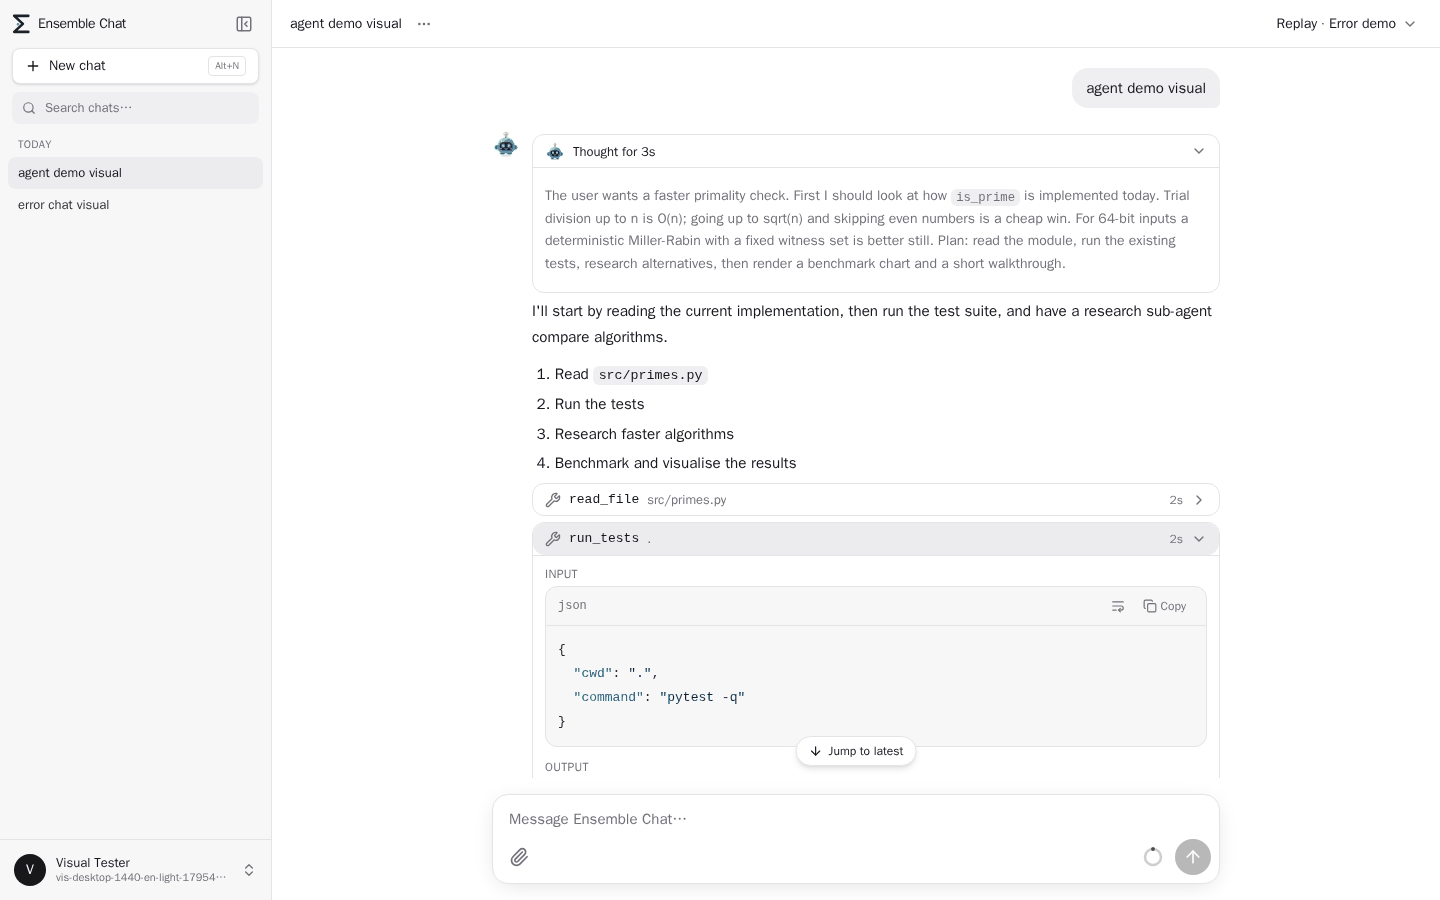
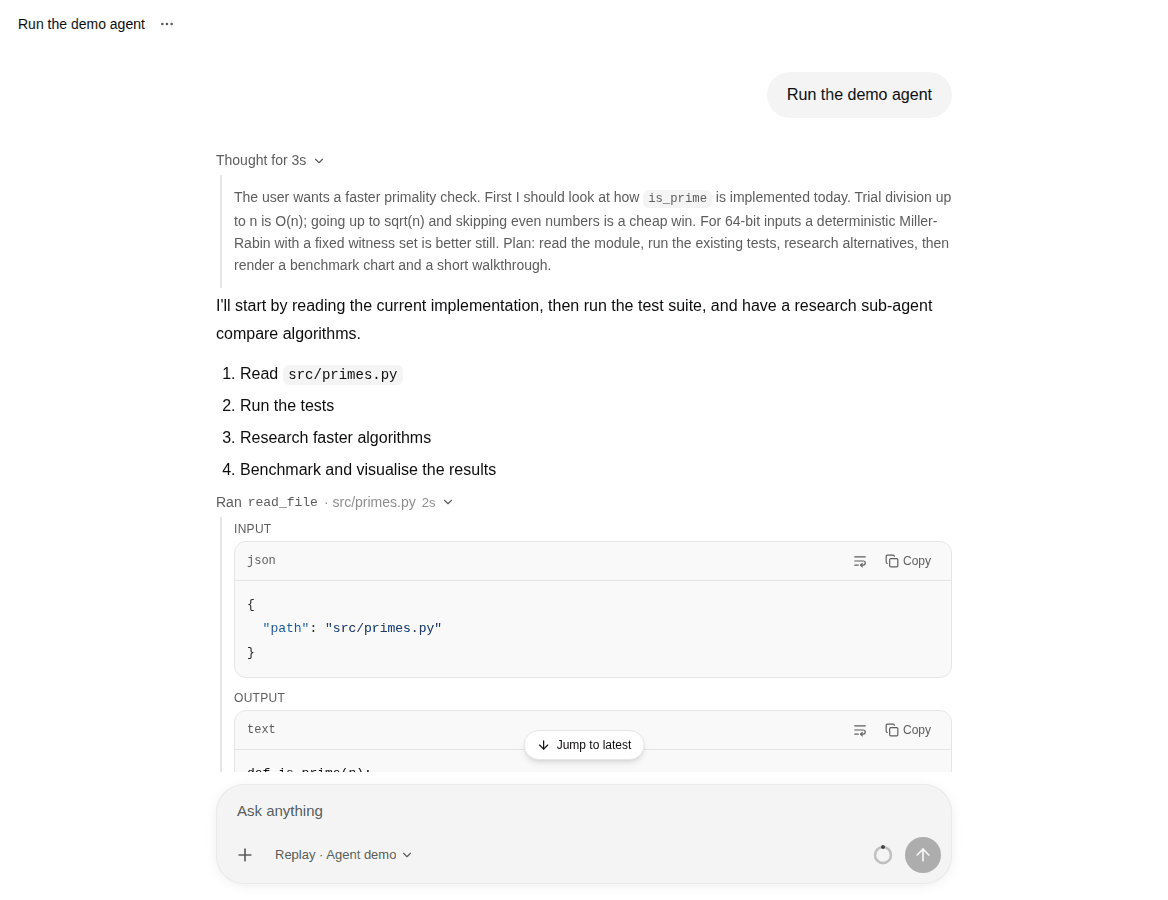
docs: describe ChatGPT-style UI, Peep and phone support; new screenshots

diff --git a/README.md b/README.md
@@ -6,7 +6,7 @@
 
 <p align="center">Built by Ensemble Labs.</p>
 
-<p align="center"><img src="docs/images/chat-agent-demo.png" alt="Desktop chat with a demo agent run: thinking block, markdown, tool cards, conversation sidebar" width="820"></p>
+<p align="center"><img src="docs/images/chat-agent-demo.png" alt="Desktop chat with a demo agent run: Thought row, markdown, inline tool rows" width="820"></p>
 
 ## Overview
 
@@ -19,26 +19,24 @@ built and tested before a real agent is plugged in (see [docs/api.md](docs/api.m
 
 ## Features
 
-- **Live thinking panel:** the model's reasoning streams into an open panel inside the chat, with Pip and a
-  timer. When it ends it collapses to "Thought for Ns".
+- **ChatGPT-style conversation:** answers are plain text on the page, not boxed cards. Reasoning is a quiet
+  "Thinking..." row that streams its last few lines with a fade and, when done, collapses to "Thought for Ns"
+  (click to expand). Tool calls and sub-agents are inline rows ("Ran `read_file`", with input and output when
+  expanded); sub-agents nest. Images, video and audio from tools are shown directly in the flow.
 - **Thinking levels per model:** each model in `config/models.yaml` declares its own levels (for example Off, Low,
   High, Max). The Thinking selector in the composer shows exactly those. A model with one level shows an
   "always on" label, and a model without levels shows no selector.
-- **Run status line:** while a reply is generated, a status line under it shows Pip, a changing verb, an elapsed
-  timer and the token count. Press the Stop button, or Esc while the focus is in the message box, to cancel (Esc in
-  other text fields, dialogs and menus does not stop it).
-- **Context ring:** a ring next to the send button shows how much of the model's context window the conversation
-  uses (it changes colour above 70% and 90%). Hover, click or tap for a breakdown (system, your messages, replies,
-  attachments, tool results, skills, free), the last response (input, output, reasoning, cache read, cache write)
-  and conversation totals. Numbers are marked "estimated" (tiktoken) or "from provider" when the provider reports
-  real usage.
-- **Tool and sub-agent cards:** name, input, output, status and run time. Sub-agents nest, and their steps can
-  contain tools and text.
+- **Stop:** the send button turns into a Stop button while a reply runs. Esc stops it too while the focus is in the
+  message box (Esc in other text fields, dialogs and menus does not).
+- **Context ring:** a small pie gauge in the composer shows how much of the model's context window the conversation
+  uses. Hover, click or tap for a breakdown (system, your messages, replies, attachments, tool results, skills,
+  free), the last response (input, output, reasoning, cache read, cache write) and conversation totals. Numbers are
+  marked "estimated" (tiktoken) or "from provider" when the provider reports real usage.
 - **Markdown, code and math:** GitHub-flavoured markdown (raw HTML is not rendered), syntax highlighting, language
   label, Copy and wrap buttons, and LaTeX math rendered with KaTeX.
 - **Media:** image gallery with a zoom lightbox (next/previous, thumbnails), video with seeking, audio player,
   and a download button on everything.
-- **Uploads:** attach images, video, audio and any file (button, drag and drop, paste). Files are stored in MinIO,
+- **Uploads:** attach images, video, audio and any file (the + button, drag and drop, paste). Files are stored in MinIO,
   images are sent to the model, text files open in a code preview.
 - **Conversation list:** each conversation shows its state (running spinner, unread dot when a reply finished
   while you were elsewhere, red dot on error), a one-line preview, search over titles and message text, and pinning.
@@ -49,26 +47,26 @@ built and tested before a real agent is plugged in (see [docs/api.md](docs/api.m
 - **Accounts:** email and password sign-up. New accounts are `pending` until an admin approves them on the admin
   page (search, approve, disable, change role, reset password, delete).
 - **Languages and themes:** Vietnamese and English with a switch; light, dark or system theme.
-- **Responsive:** phone to desktop. The sidebar becomes a drawer below 768 px.
-- **Branding:** the Ensemble logo (theme-aware SVG) in the sidebar, the login page and the favicon. Pip, a teal robot
-  with a lightbulb antenna, is the assistant's avatar and animates while the assistant works (idle, thinking,
-  working, error).
-- **Reconnect and stop:** a reply keeps running if you close the tab. Reload the page and the stream resumes.
-  A Stop button cancels it.
+- **Mobile and PWA:** built for phones as well as desktops: the sidebar is a drawer below 768 px, safe areas
+  (notches), dynamic viewport height and on-screen keyboards are handled, and inputs are 16 px so iOS does not zoom.
+  A web app manifest with icons lets you install it to the home screen (standalone display). There is no service
+  worker, so it is not available offline.
+- **Mascot and branding:** the Ensemble logo (theme-aware SVG) in the sidebar, the login page and the favicon.
+  Peep, a yellow chick, greets you when a new chat opens and then idles. It also shows as a small "waiting"
+  indicator before the first token of a reply arrives, and in an error pose next to a failed reply.
+- **Dev model picker:** when `dev.model_switcher` is on, a model picker appears in the composer on desktop and in
+  the drawer on phones (see [Models configuration](#models-configuration)).
+- **Reconnect:** a reply keeps running if you close the tab. Reload the page and the stream resumes.
 
 <p align="center">
-  <img src="docs/images/chat-dark.png" alt="Dark theme: Pip and the run-status line while the assistant is thinking" width="520">
-  <img src="docs/images/mobile-chat.png" alt="Phone layout with the run-status line" width="190">
+  <img src="docs/images/chat-dark.png" alt="Dark theme: inline tool rows with an image gallery shown directly in the flow" width="520">
+  <img src="docs/images/chat-code.png" alt="Light theme: answer with a highlighted code block, conversation list and the context gauge" width="520">
 </p>
 
 <p align="center">
-  <img src="docs/images/context-ring.png" alt="Context ring popover: breakdown, last response, conversation totals" width="400">
-  <img src="docs/images/gallery-lightbox.png" alt="Image gallery lightbox with zoom and thumbnails" width="400">
-</p>
-
-<p align="center">
-  <img src="docs/images/integrations.png" alt="Settings, Plugins and Skills tab" width="400">
-  <img src="docs/images/math.png" alt="Math rendered with KaTeX in an answer" width="400">
+  <img src="docs/images/peep-empty.png" alt="New chat with Peep greeting the user and suggestion chips" width="400">
+  <img src="docs/images/peep-states.png" alt="Peep poses" width="300">
+  <img src="docs/images/mobile-chat.png" alt="Phone layout, dark theme" width="170">
 </p>
 
 ## Architecture

diff --git a/docs/development.md b/docs/development.md
@@ -58,6 +58,8 @@ from `.env` are used to sign in as admin.
 - **Database checks** (`e2e/check-db.sh`, run after the suite, a failure fails `make e2e`): every stored password hash
   starts with `$argon2id$` and at least one user exists, and no plugin header value used by the specs is stored in
   plaintext.
+- The `@gemini` specs depend on the free development proxy and can be blocked when it hangs. To check everything else,
+  run `make e2e ARGS="--grep-invert @gemini"`.
 - Playwright's Chromium has no H.264/AAC: playback and seeking tests use WebM and MP3. The mp4 demo file is only
   checked for Range requests and downloads.
 - Reports and traces go to `e2e/playwright-report/` and `e2e/test-results/`; ad-hoc screenshots to `e2e/artifacts/`
